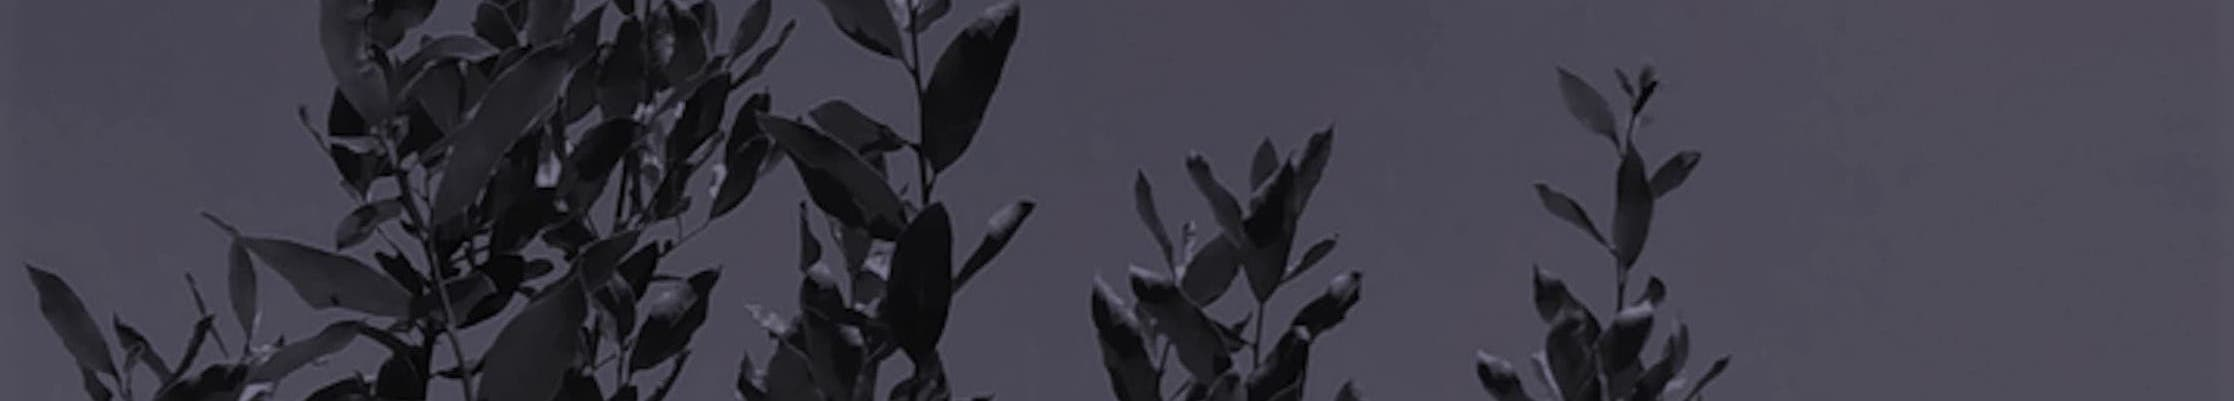
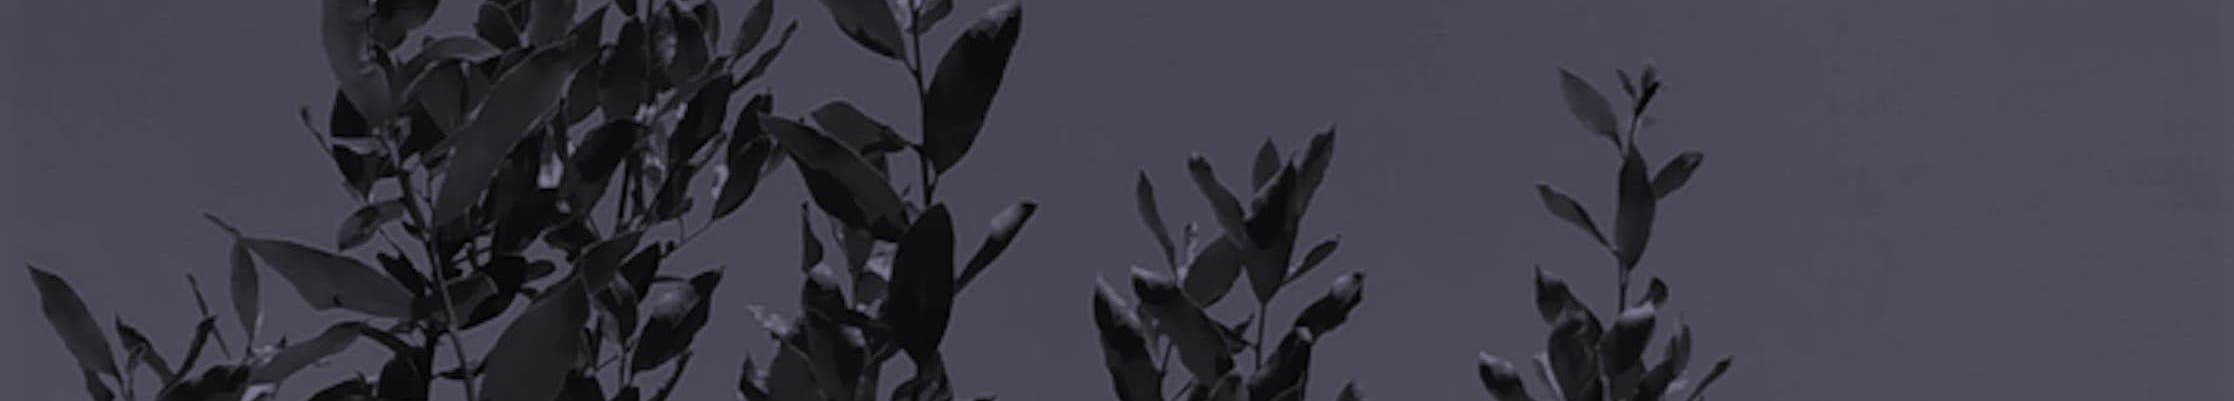
layout 調整

diff --git a/src/pages/application/index.tsx b/src/pages/application/index.tsx
@@ -60,7 +60,7 @@ const Application: NextPage = (props: any) => {
             background-size: cover;
             width: 100vw;
             min-height: 100vh;
-            background-position: center;
+            background-position: top;
           }
           @media (max-width: 639px) {
             .background {
